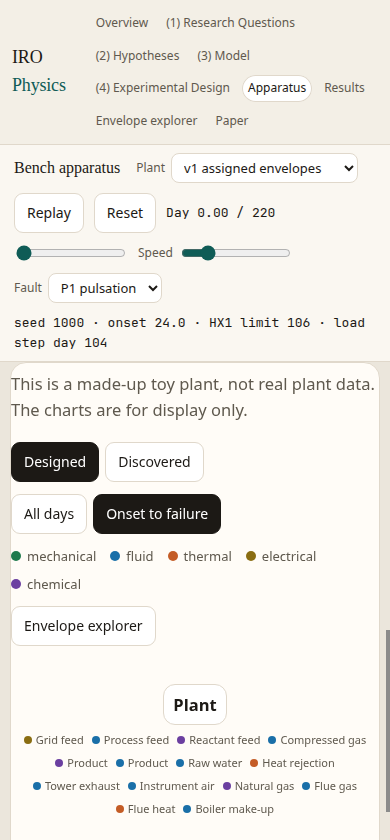
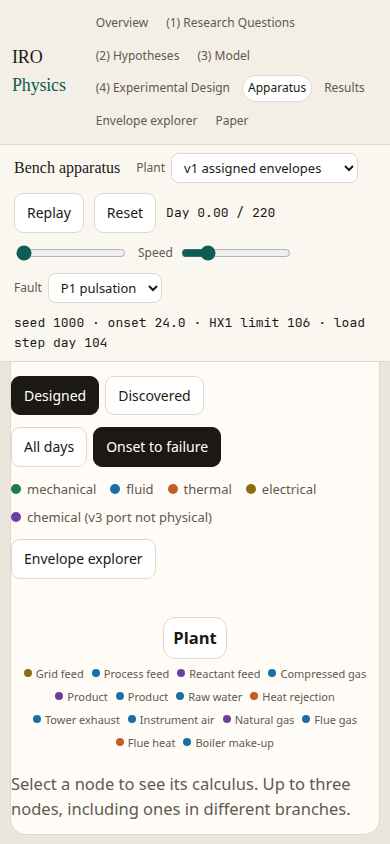
Read the corrected v3 units and keep the lifecycle labels apart
Sigma titles now take kW/K from the series metadata, power stays MW, and the chart note states the causal lag from lag_hours. The chemical port is marked non-physical, sigma is labeled as an energy-balance check, and the failure line is tied to the toy model's provisional rule. The v1 endurance caveat stays on the new view. Phase names on the Francis chart use a second row when they would collide, and the v2 graph lays out whatever envelopes the plant file contains.

diff --git a/site/js/envelope-tree.js b/site/js/envelope-tree.js
@@ -8,10 +8,20 @@ const DOMAIN = {
   chemical: "#6b3fa0",
 };
 
+function domainLabel(name) {
+  return name === "chemical" ? "chemical (v3 port not physical)" : name;
+}
+
+function baseUnit(text) {
+  const match = String(text || "").match(/kW\/K|\bMW\b|\bkW\b|\bpu\b/);
+  return match ? match[0] : "";
+}
+
 export function mountNest(root, { peer } = {}) {
   root.classList.add("nest-root");
   root.innerHTML = `
     <p class="ex-note" data-notice>This is a made-up toy plant, not real plant data. The charts are for display only.</p>
+    <p class="ex-note" data-caveat>In this v1 toy the limit is entropic endurance; the study now keeps entropy generation as a balance check and tracks damage per mechanism (RQ10).</p>
     <div class="ex-bar">
       <div class="seg" role="group" aria-label="Hierarchy">
         <button type="button" class="btn" data-tree="designed" aria-pressed="true">Designed</button>
@@ -22,7 +32,7 @@ export function mountNest(root, { peer } = {}) {
         <button type="button" class="btn" data-win="fault" aria-pressed="true">Onset to failure</button>
       </div>
       <ul class="dom-legend">${Object.keys(DOMAIN).map((name) =>
-        `<li><i style="background:${DOMAIN[name]}"></i>${name}</li>`
+        `<li><i style="background:${DOMAIN[name]}"></i>${domainLabel(name)}</li>`
       ).join("")}</ul>
       ${peer ? `<a class="btn" href="${peer.href}">${peer.label}</a>` : ""}
     </div>
@@ -238,14 +248,24 @@ export function mountNest(root, { peer } = {}) {
   }
 
   function unitFor(info, key, index) {
-    const text = String(info?.quantities?.[key] || "");
-    const base = /\bMW\b/.test(text) && !/\bpu\b/.test(text) ? "MW" : (/\bpu\b/.test(text) ? "pu" : "");
+    const base = baseUnit(info?.quantities?.[key]);
     if (!base || index === 0) return base;
     const raw = String(info?.orders?.[index] || "");
     const power = raw.match(/per day\^(\d+)/);
     if (power) return `${base}/day^${power[1]}`;
     if (/per day/.test(raw)) return `${base}/day`;
     return base;
+  }
+
+  function lagNote(info) {
+    const lag = info?.lag_hours;
+    if (!lag) return "";
+    const bits = [0, 1, 2, 3].map((index) => {
+      const hours = lag[index] ?? lag[String(index)];
+      if (hours == null || hours === "") return "";
+      return `${orderName(info, index)} ${Number(hours)} h`;
+    }).filter(Boolean);
+    return bits.length ? `Causal trailing windows; stated lag ${bits.join(", ")}.` : "";
   }
 
   function indicesFor(days) {
@@ -282,7 +302,10 @@ export function mountNest(root, { peer } = {}) {
     const where = windowMode === "fault" && onset != null && fail
       ? `Days ${sig3(onset)} to ${sig3(fail.day)}.`
       : "The y-scale leaves out the first and last day, where the smoothing window runs off the series.";
-    chartNote.textContent = `Dashed line: fault onset. Solid line: first failure${fail ? `, ${fail.asset}` : ""}. ${where}`;
+    const failure = fail
+      ? `Solid line: first failure, from the toy model's provisional failure rule (${fail.asset}, day ${sig3(fail.day)}).`
+      : "Solid line: first failure, from the toy model's provisional failure rule.";
+    chartNote.textContent = [`Dashed line: fault onset.`, failure, lagNote(info), where].filter(Boolean).join(" ");
     chartsEl.innerHTML = blocks.map(({ node, series }) => {
       if (!series) {
         return `<article class="calc-card"><h2>${label(node)}</h2><p>No time series for this node in the discovered tree.</p></article>`;
@@ -292,6 +315,7 @@ export function mountNest(root, { peer } = {}) {
       ).join("");
       return `<article class="calc-card"><h2 title="${node.name}">${label(node)}</h2>
         <h3>σ <span>${unitFor(info, "sigma", 0)}</span></h3><div class="orders">${panels("sigma")}</div>
+        <p class="sigma-check">σ is shown as an energy-balance check, not a damage measure.</p>
         <h3>P <span>${unitFor(info, "boundary_power", 0)}</span></h3><div class="orders">${panels("boundary_power")}</div></article>`;
     }).join("");
     lastDraw = { blocks, info, token };

diff --git a/site/js/v2-graph.js b/site/js/v2-graph.js
@@ -19,8 +19,31 @@ const BOX = {
 const W = 966;
 const H = 560;
 
+const TONES = Object.values(PALETTE);
+
+function layoutOf(envelopes) {
+  const known = envelopes.every((env) => BOX[env.name] && PALETTE[env.name]);
+  if (known) {
+    return Object.fromEntries(envelopes.map((env) => [env.id, { box: BOX[env.name], tone: PALETTE[env.name] }]));
+  }
+  const cols = envelopes.length <= 4 ? 2 : 3;
+  const rows = Math.ceil(envelopes.length / cols);
+  const gap = 16;
+  const w = (W - gap * (cols + 1)) / cols;
+  const h = (H - gap * (rows + 1)) / rows;
+  return Object.fromEntries(envelopes.map((env, i) => {
+    const col = i % cols;
+    const row = Math.floor(i / cols);
+    return [env.id, {
+      box: { x: gap + col * (w + gap), y: gap + row * (h + gap), w, h },
+      tone: TONES[i % TONES.length],
+    }];
+  }));
+}
+
 export function mountV2(graphHost, detailHost, plant) {
   const envById = Object.fromEntries(plant.envelopes.map((env) => [env.id, env]));
+  const layout = layoutOf(plant.envelopes);
   let selected = plant.envelopes[0].id;
 
   graphHost.innerHTML = `
@@ -29,12 +52,12 @@ export function mountV2(graphHost, detailHost, plant) {
     <div class="v2-legend" id="v2legend"></div>`;
   const stage = graphHost.querySelector("#v2svg");
   graphHost.querySelector("#v2legend").innerHTML = plant.envelopes.map((env) => {
-    const tone = PALETTE[env.name];
+    const tone = layout[env.id].tone;
     return `<span><i style="background:${tone.fill};box-shadow:inset 0 0 0 1.5px ${tone.stroke}"></i>${env.name}</span>`;
   }).join("");
 
   function slots(env) {
-    const box = BOX[env.name];
+    const box = layout[env.id].box;
     const assets = plant.assets.filter((a) => a.envelopeId === env.id);
     const n = assets.length;
     const cols = n <= 3 ? n : n <= 4 ? 2 : n <= 8 ? 4 : 5;
@@ -63,7 +86,7 @@ export function mountV2(graphHost, detailHost, plant) {
   }
 
   function draw() {
-    const boxes = plant.envelopes.map((env) => ({ env, box: BOX[env.name], tone: PALETTE[env.name] }));
+    const boxes = plant.envelopes.map((env) => ({ env, box: layout[env.id].box, tone: layout[env.id].tone }));
     const regions = boxes.map(({ env, box, tone }) => {
       const on = env.id === selected;
       return `<g data-env="${env.id}" style="cursor:pointer">
@@ -88,8 +111,8 @@ export function mountV2(graphHost, detailHost, plant) {
     }
     const maxPower = Math.max(0.001, ...[...bundles.values()].map((b) => b.power));
     const lines = [...bundles.values()].map((bundle) => {
-      const from = BOX[envById[bundle.a].name];
-      const to = BOX[envById[bundle.b].name];
+      const from = layout[bundle.a].box;
+      const to = layout[bundle.b].box;
       const p1 = edgePoint(from, to);
       const p2 = edgePoint(to, from);
       const width = (1.25 + 5.5 * Math.sqrt(bundle.power / maxPower)).toFixed(2);

diff --git a/site/js/physics-view.js b/site/js/physics-view.js
@@ -222,7 +222,7 @@ export function mountPhysics(root, { plant, scenario, getFault, clock }) {
     if (!ctx) return;
     const w = canvas.clientWidth;
     const h = canvas.clientHeight;
-    const pad = { l: 42, r: 18, t: 18, b: 36 };
+    const pad = { l: 42, r: 18, t: 30, b: 36 };
     const pw = w - pad.l - pad.r;
     const ph = h - pad.t - pad.b;
     const tMax = fault.assets[center].sigma.length;
@@ -241,12 +241,8 @@ export function mountPhysics(root, { plant, scenario, getFault, clock }) {
         ctx.fillStyle = "rgba(9,11,16,0.38)";
         ctx.fillRect(x0, pad.t, x1 - x0, ph);
       }
-      ctx.fillStyle = "rgba(255,255,255,0.72)";
-      ctx.font = "10px system-ui, sans-serif";
-      ctx.textAlign = "center";
-      ctx.textBaseline = "top";
-      if (band.label && x1 - x0 > 18) ctx.fillText(band.label, (x0 + x1) / 2, pad.t + 3);
     }
+    drawPhaseLabels(ctx, bounds, xAt);
     ctx.strokeStyle = "rgba(255,255,255,0.08)";
     ctx.fillStyle = "rgba(255,255,255,0.55)";
     ctx.font = "11px system-ui, sans-serif";
@@ -443,6 +439,52 @@ function acScale(fault) {
   let scale = 0;
   for (const v of row.powerAc) scale = Math.max(scale, Math.abs(Number(v)));
   return scale || 1;
+}
+
+const PHASE_SHORT = {
+  NOMINAL: "NOM",
+  TRANSIENT: "TRANS",
+  "AFTER ONSET": "AFTER",
+  "PRE-FAULT": "PRE",
+  "TRADITIONAL P–F": "P–F",
+  DAMAGE: "DMG",
+  FAILED: "FAIL",
+};
+
+function drawPhaseLabels(ctx, bounds, xAt) {
+  ctx.font = "10px system-ui, sans-serif";
+  ctx.textAlign = "center";
+  ctx.textBaseline = "top";
+  ctx.fillStyle = "rgba(255,255,255,0.88)";
+  const placed = [];
+  const hits = (row, left, right) => placed.some((item) => item.row === row && right > item.left - 4 && left < item.right + 4);
+  for (let i = 0; i < bounds.length - 1; i++) {
+    const label = bounds[i].label;
+    if (!label) continue;
+    const x0 = xAt(bounds[i].t);
+    const x1 = xAt(bounds[i + 1].t);
+    const mid = (x0 + x1) / 2;
+    const span = x1 - x0;
+    let text = label;
+    let width = ctx.measureText(text).width;
+    if (width + 8 > span) {
+      text = PHASE_SHORT[label] || label;
+      width = ctx.measureText(text).width;
+    }
+    let left = mid - width / 2;
+    let right = mid + width / 2;
+    let row = hits(0, left, right) ? 1 : 0;
+    if (hits(row, left, right) && text !== (PHASE_SHORT[label] || label)) {
+      text = PHASE_SHORT[label] || label;
+      width = ctx.measureText(text).width;
+      left = mid - width / 2;
+      right = mid + width / 2;
+      row = hits(0, left, right) ? 1 : 0;
+    }
+    if (hits(row, left, right)) continue;
+    placed.push({ left, right, row });
+    ctx.fillText(text, mid, 2 + row * 13);
+  }
 }
 
 function bandFill(label) {

diff --git a/site/css/site.css b/site/css/site.css
@@ -99,7 +99,7 @@ h1 {
 .dom-legend li { display: flex; align-items: center; gap: 6px; font-size: 13px; color: var(--muted); }
 .dom-legend i { width: 10px; height: 10px; border-radius: 50%; display: block; }
 .ex-note { margin: 8px 0 12px; color: var(--muted); max-width: 78ch; }
-.tree { padding: 8px 0 12px; overflow-x: auto; }
+.tree { padding: 8px 0 12px; overflow-x: auto; flex-shrink: 0; }
 .enode { display: flex; flex-direction: column; align-items: center; gap: 0; min-width: 0; }
 .ecard { display: flex; flex-direction: column; align-items: center; gap: 6px; }
 .enode-btn {
@@ -126,7 +126,9 @@ h1 {
 .kids { display: flex; flex-wrap: nowrap; justify-content: center; gap: 18px 14px; position: relative; width: max-content; min-width: 100%; padding-top: 10px; }
 .kids > .enode { position: relative; z-index: 1; }
 .sibs { position: absolute; inset: 0; width: 100%; height: 100%; overflow: visible; pointer-events: none; z-index: 0; }
-.chart-row { display: flex; flex-direction: column; gap: 16px; }
+.chart-row { display: flex; flex-direction: column; gap: 16px; flex-shrink: 0; }
+.nest-root > .ex-note,
+.nest-root > .ex-bar { flex-shrink: 0; }
 .calc-card { background: var(--card); border: 1px solid var(--line); border-radius: 14px; padding: 12px; width: 100%; }
 .calc-card h2 { font-family: var(--serif); font-weight: 500; font-size: 22px; margin: 0 0 8px; }
 .calc-card h3 { margin: 8px 0 4px; font-size: 13px; color: var(--muted); font-weight: 650; }
@@ -135,6 +137,7 @@ h1 {
 .orders figcaption { font-size: 11px; color: var(--faint); }
 .orders canvas { width: 100%; height: 120px; display: block; background: #fff; border-radius: 8px; border: 1px solid var(--line); }
 .orders figcaption span, .calc-card h3 span { color: var(--faint); font-weight: 500; }
+.sigma-check { margin: 4px 0 8px; color: var(--muted); font-size: 12.5px; }
 .pane .nest-root { height: 100%; overflow: auto; padding: 10px 12px 28px; }
 @media (min-width: 1100px) {
   body.app #v1views #physics { flex: 0 0 300px; }
@@ -142,7 +145,8 @@ h1 {
 }
 @media (max-width: 720px) {
   .enode-btn { min-width: 64px; padding: 7px 8px; }
-  .orders { grid-template-columns: repeat(4, minmax(200px, 1fr)); overflow-x: auto; }
+  .kids { flex-wrap: wrap; width: 100%; min-width: 0; justify-content: center; }
+  .orders { grid-template-columns: repeat(2, minmax(0, 1fr)); }
 }
 .lede + .lede { color: var(--muted); font-size: 16.5px; }
 .actions { display: flex; gap: 10px; margin: 22px 0 8px; }
